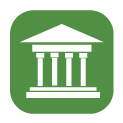
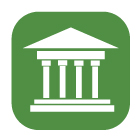
nuevos íconos pano

diff --git a/src/pages/pano.js b/src/pages/pano.js
@@ -219,7 +219,7 @@ const PanoPage = () => {
         "Academia",
         [-758.81, -401.44, -4918.53],
         irAcademia,
-        "/images/vr/Icon_Academia.svg"
+        "/images/vr/Icon_Academia.jpg"
       )
 
       const infospotB = createInfoSpot(
